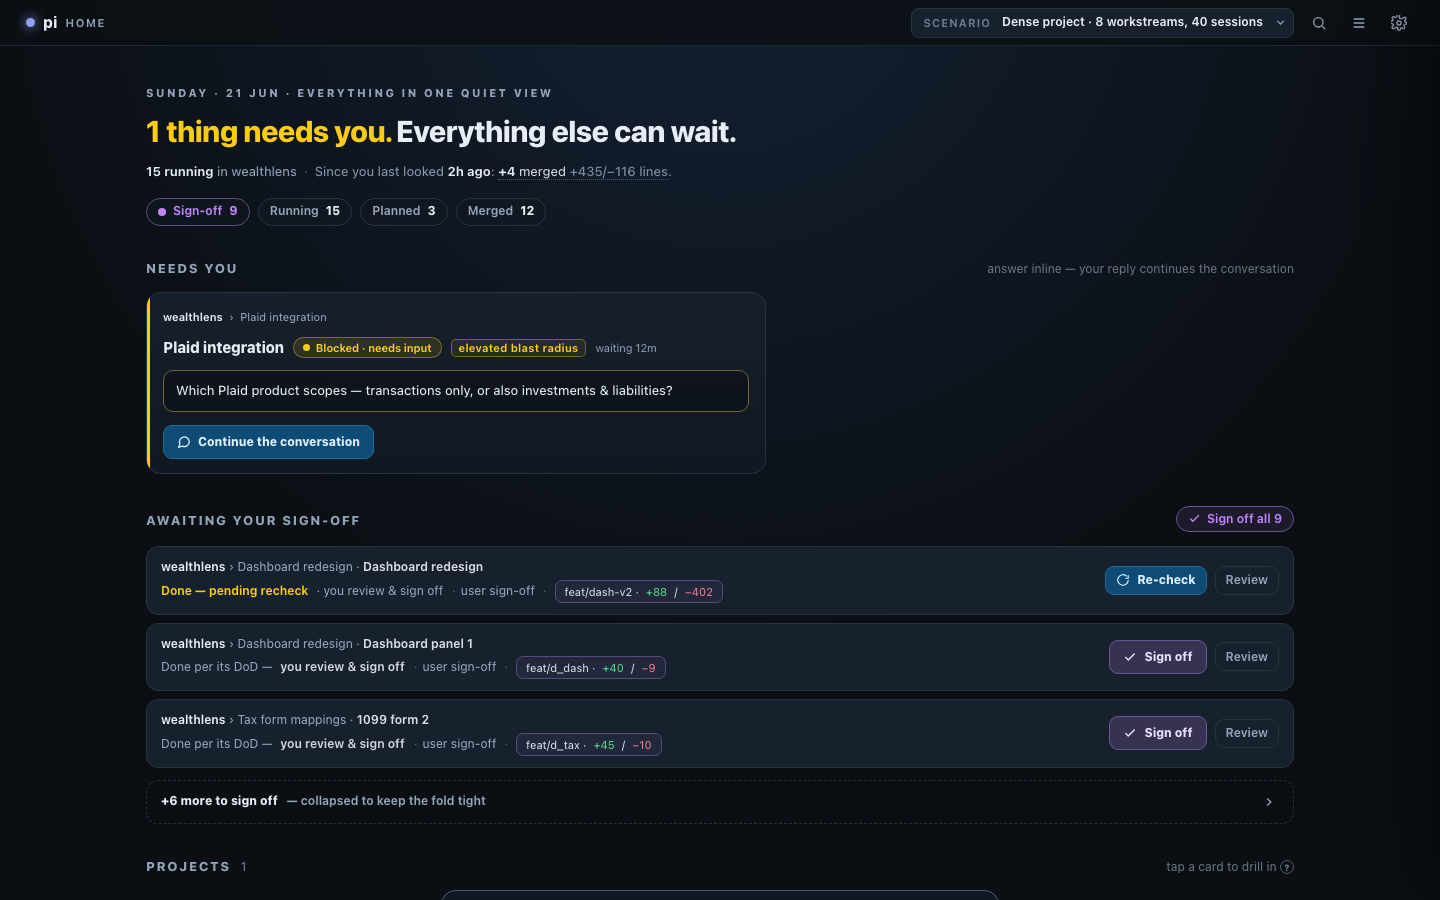
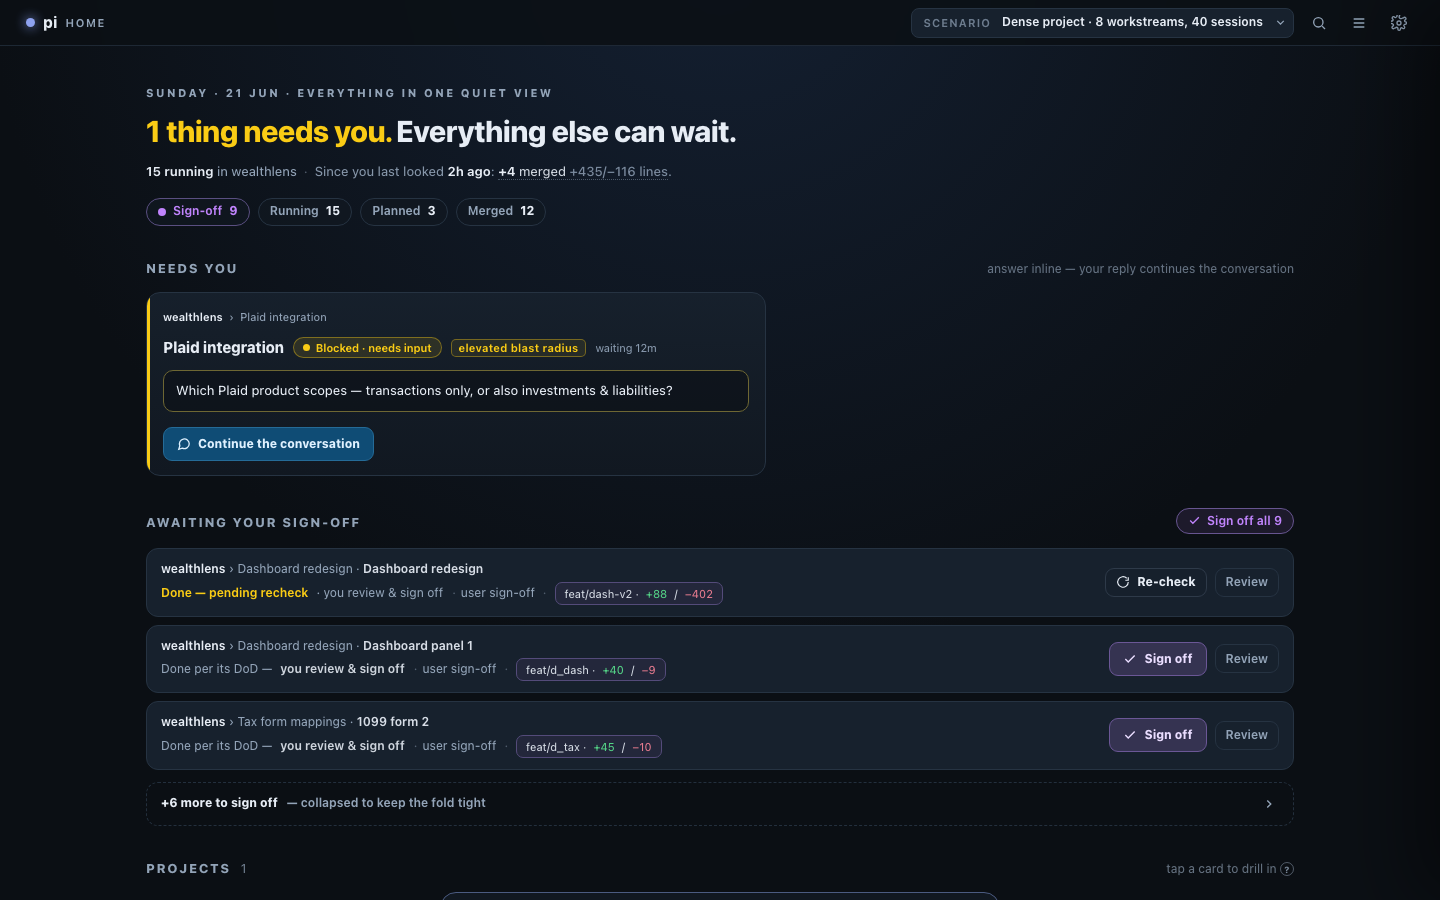
vis-fix: round 3

Changed region(s): [[0.0938, 0.56, 0.9062, 0.9022], [0.125, 0.4667, 0.2812, 0.5289], [0.0938, 0.56, 0.25, 0.5911]]

diff --git a/docs/dashboard-designs-final/index.html b/docs/dashboard-designs-final/index.html
@@ -67,8 +67,19 @@ button{font:inherit;cursor:pointer;color:inherit;}
 .headline em{font-style:normal;color:var(--st-block);}
 .headline em.calm{color:var(--st-run);}
 .headline em.sign{color:var(--st-sign);}  /* sign-off hero emphasis is PURPLE, never amber — status hue is honest (#2) */
+/* (round-3 vis-fix · coldstart) setup is a genuine first-run OBLIGATION (a registered project with no DoD
+   can't be tracked) — so the hero OWNS it in the INDIGO ACCENT voice (not the calm cyan "nothing needs you"
+   reassurance, and not a status alarm hue). Indigo = "this is an action for you", distinct from every status. */
+.headline em.setup{color:var(--accent);}
 .subline{color:var(--muted);font-size:13px;max-width:760px;}
 .subline b{color:var(--text);font-weight:650;}
+/* (round-3 vis-fix · coldstart) the hero's "Set a Definition of Done" affordance is the ONE real CTA on a
+   first run whose single registered project genuinely needs the user — so it must NOT be muted. It is a
+   filled indigo-accent pill (action voice), clearly louder than the old grey dashed .swjump hedge, while
+   still NOT borrowing a status hue (cyan/amber/purple/red stay reserved for status). */
+.subline .hero-setup-cta{margin-left:4px;display:inline-flex;align-items:center;gap:5px;color:#0b0f14;
+  background:var(--accent);border:1px solid var(--accent);border-radius:999px;padding:3px 11px;font-size:12px;font-weight:800;cursor:pointer;}
+.subline .hero-setup-cta:hover{background:color-mix(in srgb,var(--accent) 88%,#fff);border-color:color-mix(in srgb,var(--accent) 88%,#fff);}
 /* "N may be waiting" — non-elicited idle stops: a quiet hedge, never the bold obligation count (#5).
    (round-2 adv-fix #C5) given a touch MORE prominence (full-muted text + a dotted help underline) than
    the old near-invisible 80%-muted italic — it is the production-dominant state until ask_user ships, so
@@ -132,9 +143,13 @@ button{font:inherit;cursor:pointer;color:inherit;}
 .shead h2{margin:0;font-size:13px;font-weight:800;letter-spacing:.13em;text-transform:uppercase;color:var(--muted);}
 .shead .cnt{font-size:12px;color:color-mix(in srgb,var(--muted) 75%,transparent);}
 .shead .hint{margin-left:auto;font-size:12px;color:color-mix(in srgb,var(--muted) 65%,transparent);}
+/* (round-3 vis-fix · color ration) bulk-action header buttons render in the INDIGO ACCENT, never amber.
+   Amber is reserved STRICTLY for Blocked STATUS, so an amber glance always means "blocked", never "click me"
+   (charge: "Triage all in focus" was amber, visually identical to the Blocked status pills below it). The
+   Sign-off bulk button (.hbtn.sgn) keeps purple — action != status — proving the same right pattern. */
 .shead .hbtn{margin-left:auto;display:inline-flex;align-items:center;gap:6px;height:26px;padding:0 11px;border-radius:999px;
-  border:1px solid color-mix(in srgb,var(--st-block) 40%,var(--border));background:color-mix(in srgb,var(--st-block) 9%,transparent);color:var(--st-block);font-size:12px;font-weight:650;}
-.shead .hbtn:hover{background:color-mix(in srgb,var(--st-block) 16%,transparent);}
+  border:1px solid color-mix(in srgb,var(--accent) 40%,var(--border));background:color-mix(in srgb,var(--accent) 9%,transparent);color:var(--accent);font-size:12px;font-weight:650;}
+.shead .hbtn:hover{background:color-mix(in srgb,var(--accent) 16%,transparent);border-color:color-mix(in srgb,var(--accent) 55%,var(--border));}
 .shead .hbtn svg{width:13px;height:13px;}
 /* purple batch action for the sign-off section header (#1) */
 .shead .hbtn.sgn{border-color:color-mix(in srgb,var(--st-sign) 42%,var(--border));background:color-mix(in srgb,var(--st-sign) 10%,transparent);color:var(--st-sign);}
@@ -1917,6 +1932,13 @@ function heroHtml(c){
       headline = `<em class="sign">${c.sign} done</em> — your sign-off is all that's pending.`;
       if(c.loop) subBits.push(`<b>${c.loop} loop${c.loop>1?"s":""}</b> running`);
       if(c.run) subBits.push(`<b>${c.run} running</b>`);
+    } else if(c.setup){
+      // (round-3 vis-fix · coldstart) a registered project with no DoD is a genuine OBLIGATION, not "nothing".
+      // The hero OWNS it in the indigo-accent action voice instead of asserting "Nothing needs you" while the
+      // body shows a NEEDS SETUP group — headline and body now agree (charge: cold-start hero/body contradiction).
+      headline = `<em class="setup">${c.setup} project${c.setup>1?"s":""} need${c.setup>1?"":"s"} setup</em> — author a Definition of Done to start tracking.`;
+      if(c.loop) subBits.push(`<b>${c.loop} loop${c.loop>1?"s":""}</b> running`);
+      if(c.run) subBits.push(`<b>${c.run} running</b>`);
     } else {
       headline = `<em class="calm">Nothing needs you.</em> ${esc(runTxt)}, everything else can wait.`;
     }
@@ -1934,7 +1956,8 @@ function heroHtml(c){
       const ll=longestLoop();
       closeTab = (ll && ll.min>=CLOSE_TAB_LOOP_MIN) ? ` Longest loop running <b>${esc(ll.label)}</b>.` : " You can close this tab.";
     } else if(c.setup && c.sign===0 && c.needs===0 && !c.softwait){
-      closeTab = ` <button class="swjump" data-jump="sec-setup">set a Definition of Done →</button>`;
+      // (round-3 vis-fix · coldstart) the ONE real CTA on this first run is NOT muted — prominent indigo pill.
+      closeTab = ` <button class="hero-setup-cta" data-jump="sec-setup">Set a Definition of Done →</button>`;
     }
     const dc = deltaClause(c.needs);
     // (#it7-p6) the delta clause carries its own leading "·" separator (CSS .delta::before), so the
@@ -2059,19 +2082,23 @@ function renderNeeds(){
     const askHtml = soft
       ? `<span style="color:var(--muted)">No structured question — pi went idle (${esc(s.meta||'a while ago')}), unread. It may be waiting on you, or may simply have finished. Open to read its last message.</span>`
       : esc(s.live);
-    // (round-2 vis-fix · primary uniqueness) the FILLED cyan primary is reserved EXCLUSIVELY for "Continue the
-    // conversation" — the design's single central answer. So within NEEDS YOU only ONE button shape is the
-    // filled primary, and the eye scans straight to it:
-    //  · BLOCK (elicited) → "Continue the conversation" is the filled cyan primary; chips above prefill the composer.
-    //  · FAILED → the remedy (Re-authenticate / Re-run) is a SECONDARY outlined "remedy" button, NOT filled cyan
-    //    (continue is the wrong verb on a dead job, and a 2nd filled cyan would break the scan-to-one-answer rule);
-    //    "Open conversation" stays a ghost.
-    //  · soft idle stop → "Open conversation" ghost-equivalent (pi can't prove it's blocked, so no "continue" promise).
+    // (round-3 vis-fix · consistent primary) "Continue the conversation" is the SINGLE filled-primary answer on
+    // EVERY NEEDS YOU card — block AND failed — so the user's scan-to-one-answer reflex never breaks across the
+    // two top-tier cards they triage first (charge: the Failed card used to teach a different primary verb).
+    //  · BLOCK (elicited) → "Continue the conversation" filled primary; chips above prefill the composer.
+    //  · FAILED → "Continue the conversation" is ALSO the filled primary (answering a dead job IS the way forward:
+    //    your reply goes straight to the agent to retry/redirect). The remedy (Re-authenticate / Re-run) is DEMOTED
+    //    to a quick-reply chip that prefills the composer, so it lives inside the conversation, not as a rival primary.
+    //  · soft idle stop → "Open conversation" (pi can't prove it's blocked, so no "continue" promise).
     let actions;
     if(s.status==="fail"){
+      // demote the failed-job remedy to a quick-reply chip (prefills composer → answering IS continuing), so it
+      // is one tap inside the conversation rather than a competing outlined primary on the card face.
       const remedy = esc(s.failAction||"Re-run");
-      actions = `<button class="btn remedy" data-open="${s.id}">${recheckIcon()} ${remedy}</button>
-        <button class="btn ghost sm" data-open="${s.id}">Open conversation</button>`;
+      if(!chips){
+        chips = `<div class="qreply"><span class="qlbl">quick reply →</span><button data-reply="${s.id}" data-text="${remedy}">${remedy}</button></div>`;
+      }
+      actions = `<button class="btn primary" data-open="${s.id}">${continueIcon()} Continue the conversation</button>`;
     } else {
       actions = `<button class="btn primary" data-open="${s.id}">${continueIcon()} ${soft?"Open conversation":"Continue the conversation"}</button>`;
     }
@@ -2093,14 +2120,18 @@ function renderNeeds(){
       // (round-2 adv-fix) carry the quick-reply CHIPS into the overflow row so "answer IS continue"
       // (invariant #4) holds for the tail too — every elicited blocked item stays ONE click from an
       // inline answer, not just the top 2. Without this, items 3+ degraded to a bare Continue.
-      const rowChips = (s.elicited && s.chips && s.chips.length)
+      // (round-3 vis-fix · consistent primary) a FAILED tail item also offers its remedy as a quick-reply CHIP
+      // (prefills composer → answering IS continuing), never as a rival primary — Continue stays the one primary.
+      let rowChips = (s.elicited && s.chips && s.chips.length)
         ? `<div class="qreply rowqreply"><span class="qlbl">quick reply →</span>`+s.chips.map(q=>`<button data-reply="${s.id}" data-text="${esc(q)}">${esc(q)}</button>`).join("")+`</div>`
         : "";
-      // (round-2 vis-fix · primary uniqueness) a FAILED tail item's remedy is the SECONDARY outlined "remedy"
-      // style, not filled cyan — the filled cyan primary stays reserved for "Continue" (block items keep it).
-      const rowBtn = s.status==="fail"
-        ? `<button class="btn remedy sm" data-open="${s.id}">${recheckIcon()} ${esc(s.failAction||"Re-run")}</button>`
-        : `<button class="btn primary sm" data-open="${s.id}">${continueIcon()} Continue</button>`;
+      if(s.status==="fail" && !rowChips){
+        const rRemedy = esc(s.failAction||"Re-run");
+        rowChips = `<div class="qreply rowqreply"><span class="qlbl">quick reply →</span><button data-reply="${s.id}" data-text="${rRemedy}">${rRemedy}</button></div>`;
+      }
+      // (round-3 vis-fix · consistent primary) EVERY overflow row's primary is the filled "Continue" — failed
+      // rows no longer teach a divergent outlined "remedy" verb (charge: divergence at the triage scan moment).
+      const rowBtn = `<button class="btn primary sm" data-open="${s.id}">${continueIcon()} Continue</button>`;
       // (round-3 adv-fix C4) each overflow row carries a stable id + a lowercase searchable haystack
       // (project · workstream · item · live) so the "jump to item" filter can reach blocked item #100 in a
       // large backlog without scrolling 198 rows.
